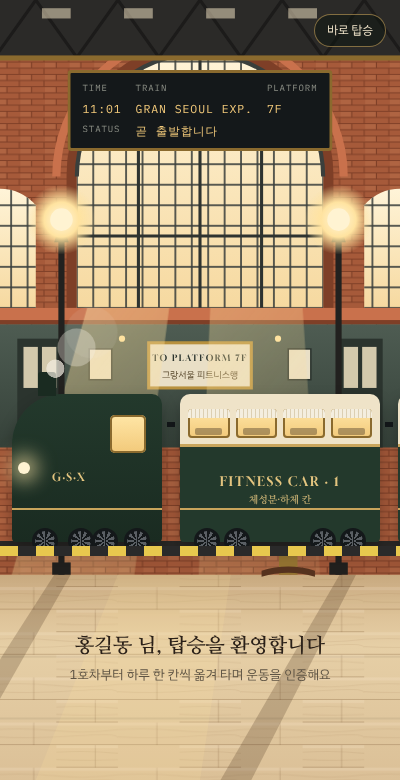
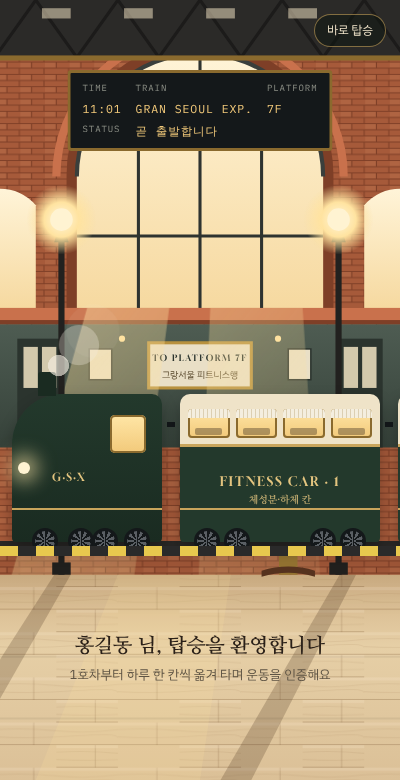
Keep only main mullions on platform windows
Claude-Session: https://claude.ai/code/session_01944gX2svfc1a8cfr9gyaLp

diff --git a/index.html b/index.html
@@ -920,13 +920,12 @@ h1,h2,h3,h4,.st-card h2,.gate b{text-wrap:balance}
         <!-- 큰 아치 창 -->
         <path d="M70 300 V170 A130 130 0 0 1 330 170 V300 Z" fill="#7E3F27"/>
         <path d="M80 300 V172 A120 120 0 0 1 320 172 V300 Z" fill="url(#sky2)"/>
-        <path d="M80 300 V172 A120 120 0 0 1 320 172 V300 Z" fill="url(#mul2)"/>
         <path d="M80 172 A120 120 0 0 1 320 172" fill="none" stroke="#3A3F3C" stroke-width="4"/>
         <path d="M200 52 V300 M140 70 V300 M260 70 V300 M80 230 H320" stroke="#2E3330" stroke-width="3"/>
         <path d="M60 172 A140 140 0 0 1 340 172" fill="none" stroke="#C9714C" stroke-width="8"/>
         <!-- 양옆 작은 아치 창 -->
-        <path d="M-30 300 V200 A46 46 0 0 1 40 200 V300 Z" fill="url(#sky2)"/><path d="M-30 300 V200 A46 46 0 0 1 40 200 V300 Z" fill="url(#mul2)"/>
-        <path d="M360 300 V200 A46 46 0 0 1 430 200 V300 Z" fill="url(#sky2)"/><path d="M360 300 V200 A46 46 0 0 1 430 200 V300 Z" fill="url(#mul2)"/>
+        <path d="M-30 300 V200 A46 46 0 0 1 40 200 V300 Z" fill="url(#sky2)"/>
+        <path d="M360 300 V200 A46 46 0 0 1 430 200 V300 Z" fill="url(#sky2)"/>
         <!-- 코니스 -->
         <rect x="0" y="300" width="400" height="12" fill="#C9714C"/><rect x="0" y="312" width="400" height="4" fill="#7E3F27"/>
         <!-- 아래 패널 + 문 + 게시판 -->
